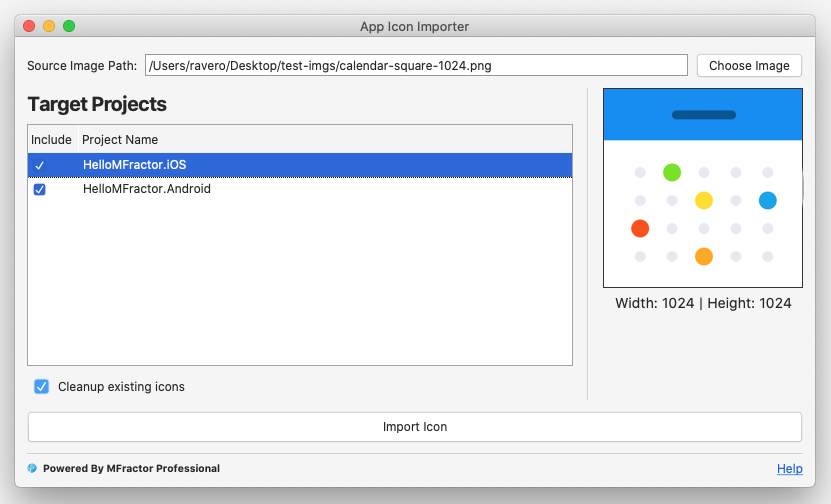
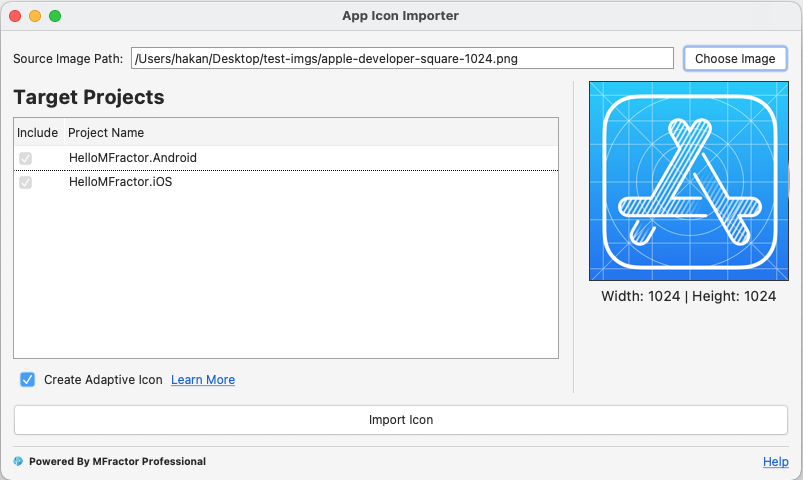
Added docs for C# 9 converter and record template.

Changed region(s): [[0.0, 0.0, 1.0, 1.0]]

diff --git a/docs/csharp/convert-project-to-csharp9.md b/docs/csharp/convert-project-to-csharp9.md
@@ -1,0 +1,41 @@
+!!! quote "Quickly convert projects to compile using C# version 9.0"
+
+## Introduction
+
+The version 9.0 of the C# language is finally available. Although it becames the default for some types of project/target frameworks, it need to be set manually on Xamarin and legacy projects. This feature allows you to quickly convert an existing project to use the new language version.
+
+!!! tip
+    For more information about C# 9.0 and how it relates to Xamarin projects please [read our blog post about this subject](https://www.mfractor.com/blogs/news/net-5-0-and-c-9-0-for-xamarin-developers). 
+
+## Converting a Project
+
+The feature is made available through the context menu of the Solution Pad (Mac) or Solution Explorer (Windows), when right-clicking on a project and navigating the `Tools` menu.
+
+![](/img/csharp/conv-cs9-menu-vsmac.png) ![](/img/csharp/conv-cs9-menu-vswin.png)
+
+Notice that the option only appears to projects that aren't already using C# 9.0. The pre-conditions for the feature availability are:
+
+* The project must be a `Xamarin.Android`, `Xamarin.iOS` or `.NET Standard` projects.
+* Project sholdn't have already have the `LangVersion` property set to `9.0` or `preview`.
+
+By running the command MFractor will add the proper declaration on the `.csproj` file to make it compatible with C# 9.0. There's also a second requirement for some types of projects that we cover on the next section.
+
+!!! note
+    MFractor writes the changes directly to the `.csproj` so Visual Studio may ask you to reload the project. This is normal and expected.
+
+### The IsExternalInit class
+
+The C# 9.0 compiler relies on the existance of the class `IsExternalInit` on projects that doesn't target .NET 5 or above. This is a class without any members on the `System.Runtime.CompilerServices` namespace, and allows using the `init` and `record` features. When this class is not available, an error will be shown:
+
+![](/img/csharp/conv-cs9-error.png)
+
+Fortunately this is pretty easy to solve, just a matter of declaring this class in the target project. The convert feature automatically does this for you on project types that requires it. The file `CSharp9Support.cs` is added to the `Properties` folder of your project (which is created automatically in case your project doens't have one):
+
+```csharp
+namespace System.Runtime.CompilerServices
+{
+    public class IsExternalInit { }
+}
+```
+
+You can rename or move the file around however best fits your project organization, just keep the class declaration and the compilation of the features will be executed correctly.

diff --git a/docs/image-management/app-icon-importer.md b/docs/image-management/app-icon-importer.md
@@ -1,8 +1,5 @@
 !!! quote "Add the Application Launcher icon with ease"
 
-!!! warning "Preview Feature"
-    This feature is currently under development is available only to preview builds. Watch for the [MFractor Blog](https://www.mfractor.com/blogs/news) to receive updates when the feature is generally available.
-
 ## Introduction
 
 The **App Icon Importer** utility allows you to easily import the Application Launcher icon into the Android and iOS projects of your solution from a single image file, that is imported in all the required densities and metadata to describe the icons.
@@ -35,19 +32,9 @@ The App Icon importer was thought to as very straighforward as possible, for thi
 
 The **Target Projects** section on the left pane lists all the projects on the current opened solution and allows you to select to which projects the icon will be imported to. By default, all projects are selected.
 
-### Cleanup Existing Icons
+### Creating Adaptive Icons
 
-The app icon importer allows you to cleanup any previous existing icons from the selected target projects. If this checkbox is marked, the importer will search for previously existing icons and remove all of them before adding the newly imported one.
-
-Cleanup rules varies from platform:
-
-* **On Android Projecs**: the importer will scan for the `mipmap-[density]` directories and remove every such directory.
-* **On iOS Projects**: the importer will remove any existing files on the `[root project dir]/Assets.xcassets/AppIcon.appiconset` folder.
-
-!!! important
-    The App Icon importer will **always** override existing images with the same file name. If you uncheck the clean existing option, it will only ignore existing images based on the rules presented above leaving it behind.
-
-    Also, the icon importer will always **override** the Asset Catalog iconset metadata file, so even though it leaves previous files behind they won't be referenced on the icon set of the iOS project anymore.
+Newer versions of Android uses Adaptative Icons, 
 
 ## Resource Name and Locations
 

diff --git a/docs/csharp/record-template.md b/docs/csharp/record-template.md
@@ -1,0 +1,24 @@
+!!! quote "Quickly add C# 9 record type."
+
+## Introduction
+
+Visual Studio for Mac don't have an built-in template for creating new `record` types on the project, as it does for classes, interfaces, enums and structs. MFractor adds this missing template.
+
+## Adding a new Record Type
+
+The template for the new C# 9 record types is available on the New File dialog alongisde with the existing built-in templates in the _General_ section.
+
+![](/img/csharp/cs9-record-template.png)
+
+Just add this new record and it will have the name of the file that you set and be put on the namespace relative to the folder where the file is being added. The template is as follows:
+
+```csharp
+using System;
+
+namespace HelloMFractor
+{
+    public record EmptyRecord
+    {
+    }
+}
+```
